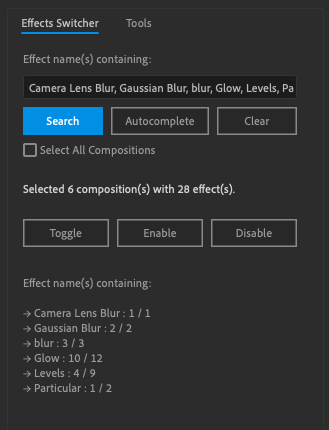
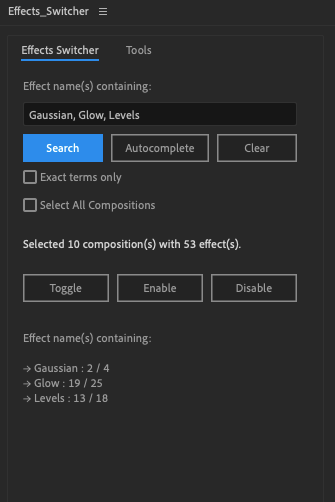
small corrections - v0.7.2

diff --git a/Effects_Switcher.jsx b/Effects_Switcher.jsx
@@ -275,9 +275,7 @@ function listOfAllEffects() {
     // Sort the array of unique effect names alphabetically
     uniqueEffects.sort();
 
-    oneLineEffectsList = uniqueEffects.join(", ");
-    effectNamesInput.text = oneLineEffectsList;
-    effectMsgArray.push(oneLineEffectsList);
+    effectNamesInput.text = uniqueEffects.join(", ");
 }
 
 // Function to check if an effect name is a duplicate
@@ -378,7 +376,7 @@ function isEffectNameDuplicate(getEffectName) {
     tab2.add("statictext", [32, 0, 296, 12], " ");
 
     var scriptName = "Effects Switcher";
-    var currentVersion = "0.7.1";
+    var currentVersion = "0.7.2";
     var url = "https://github.com/qtaped/ae-effects-switcher";
     var infosButton = tab2.add("button", undefined, scriptName + " " + currentVersion);
     infosButton.alignment = "right";

diff --git a/README.md b/README.md
@@ -14,6 +14,6 @@ Download [Effects_Switcher.jsx](./Effects_Switcher.jsx) and run installation in 
 Files / Scripts / Install ScriptUI Panel...
 ```
 
-`Restart`After Effects.
+`Restart` After Effects.
 
-The script should be visible in `Window`tab.
+The script should be visible in `Window` tab.
